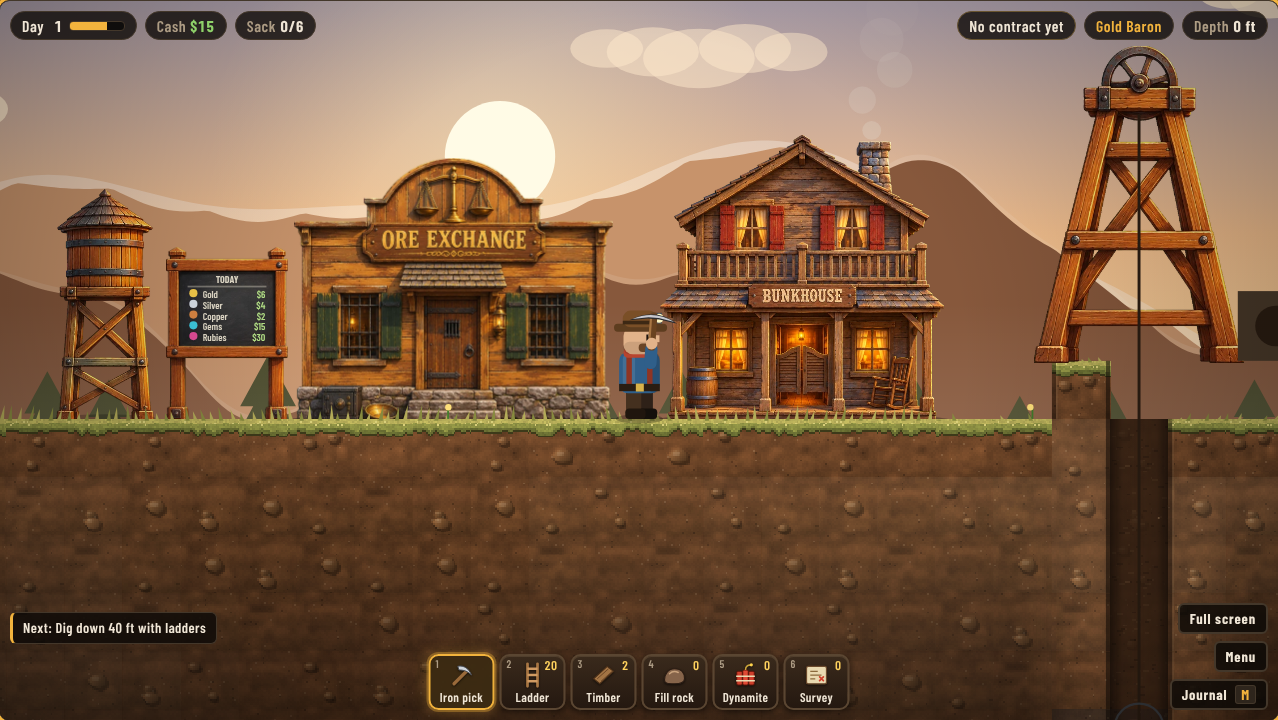
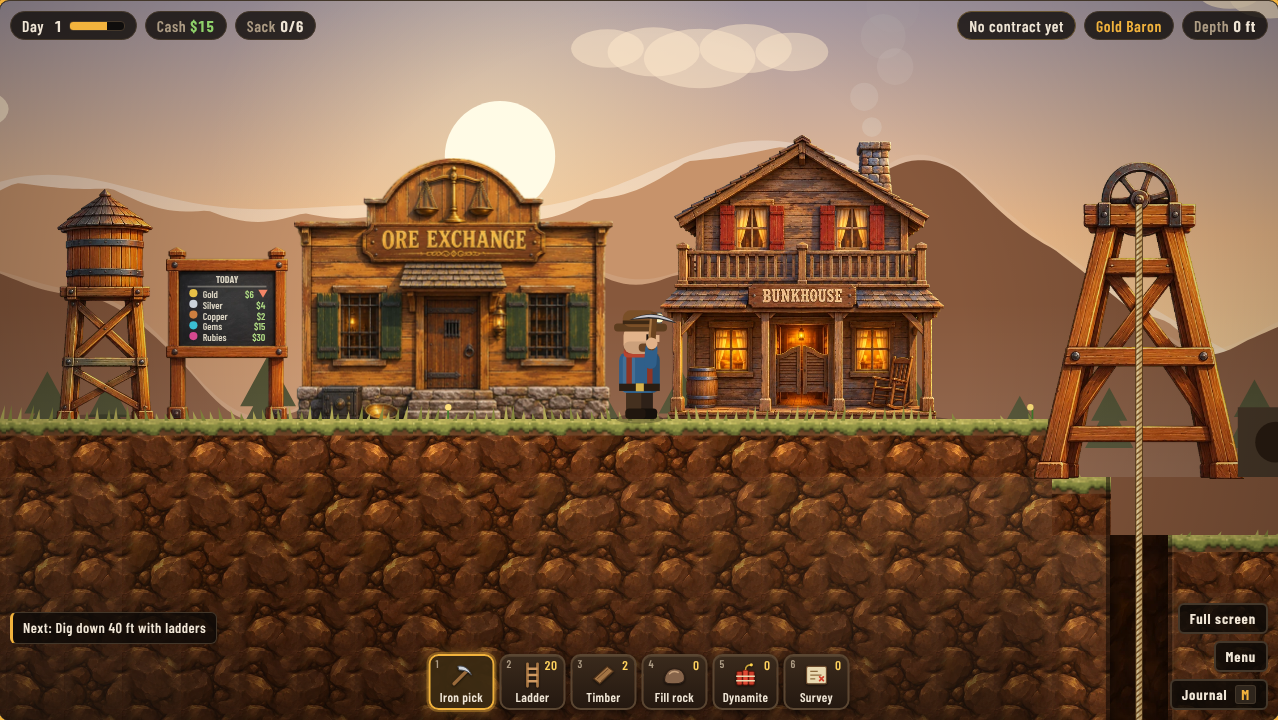
Show pack counts in the store, and give the hoist a proper rope
The General Store has an 'In pack' column showing how many of each item
you are carrying. The number updates the moment you buy, with a small
pop, and so does the cash line. The old 'You have n.' text at the end
of each description is gone. One-time gear shows a tick once owned.

The hoist rope is now a bright hemp colour with a twisted-strand
texture that travels with the bucket, in place of a thin dark line.

Fixes #13
Fixes #14

Claude-Session: https://claude.ai/code/session_01MRT5Ws11QEHHuG9dHs9ttN

diff --git a/deepvein.html b/deepvein.html
@@ -65,6 +65,15 @@ button:disabled{opacity:.45;cursor:not-allowed}
 .card .sub{color:var(--muted);margin:2px 0 8px;font-size:.95rem}
 .rowitem{display:grid;grid-template-columns:1fr auto;gap:2px 12px;align-items:center;padding:7px 0;border-top:1px solid var(--line)}
 .rowitem .nm{font-weight:600}
+.rowitem.shop{grid-template-columns:1fr 4.2rem auto}
+.rowitem.shop .have{grid-row:1 / span 2;grid-column:2;text-align:center;font-family:var(--label);font-weight:700;font-size:1.25rem;color:var(--muted);font-variant-numeric:tabular-nums}
+.rowitem.shop .have.num{color:var(--gold)}
+.rowitem.shop .act{grid-column:3;min-width:11.5rem;justify-content:flex-end}
+.rowitem.shophead{border-top:0;padding:2px 0;font-family:var(--label);font-size:.72rem;letter-spacing:.1em;text-transform:uppercase;color:var(--muted)}
+.rowitem.shophead .have{font-size:.72rem;font-weight:600;grid-row:auto}
+.have.bump{animation:bump .5s ease-out}
+@keyframes bump{0%{transform:scale(1.7);color:var(--ok)}100%{transform:scale(1)}}
+@media (prefers-reduced-motion:reduce){.have.bump{animation:none}}
 .rowitem .ds{color:var(--muted);font-size:.86rem;grid-column:1}
 .rowitem .act{grid-row:1 / span 2;grid-column:2;display:flex;gap:6px;align-items:center}
 .price{font-family:var(--label);font-weight:700;color:var(--ok);font-variant-numeric:tabular-nums}
@@ -712,8 +721,9 @@ function openStore(msg){
   const rows=SHOP.map(it=>{if(it.sec)return `<h4>${it.sec}</h4>`;const owned=it.once&&it.once(),locked=rk<it.r,blocked=it.needs&&!it.needs(),pr=priceOf(it),deal=G.deal===it.id;
     let act;if(owned)act='<span class="ds">Owned</span>';else if(locked)act=`<span class="lock">Unlocks at ${RANKS[it.r][0]}</span>`;else if(blocked)act=`<span class="lock">${it.needsText}</span>`;
     else act=`<span class="price">$${pr}</span><button class="btn" data-buy="${it.id}" data-q="1" ${G.money<pr?'disabled':''}>Buy</button>${it.bulk?`<button class="ghost" data-buy="${it.id}" data-q="${it.bulk}" ${G.money<pr*it.bulk?'disabled':''}>\u00d7${it.bulk}</button>`:''}`;
-    return `<div class="rowitem${locked?' locked':''}"><span class="nm">${it.name}${deal&&!locked?' <span class="dealtag">Deal of the day</span>':''}</span><span class="ds">${it.ds}${it.once||locked?'':` You have ${G.pack[it.id]}.`}</span><div class="act">${act}</div></div>`;}).join('');
-  const ov=overlay(`<h3>General Store</h3><div class="sub">Cash: <span class="price">$${G.money}</span>. Rank: <b>${RANKS[rk][0]}</b>. What you buy goes in your pack, and you carry it down yourself.</div><div data-math></div>${rows}<div class="verdict ok">${msg||''}</div><div class="foot"><button class="ghost" data-close>Leave (Esc)</button></div>`);
+    const have=it.once?(owned?'\u2713':'\u2013'):G.pack[it.id];
+    return `<div class="rowitem shop${locked?' locked':''}"><span class="nm">${it.name}${deal&&!locked?' <span class="dealtag">Deal of the day</span>':''}</span><span class="ds">${it.ds}</span><span class="have${it.once?'':' num'}" ${it.once?'':`data-have="${it.id}"`} title="In your pack">${have}</span><div class="act">${act}</div></div>`;}).join('');
+  const ov=overlay(`<h3>General Store</h3><div class="sub">Cash: <span class="price" data-storecash>$${G.money}</span>. Rank: <b>${RANKS[rk][0]}</b>. What you buy goes in your pack, and you carry it down yourself.</div><div data-math></div><div class="rowitem shop shophead"><span>Item</span><span class="have">In pack</span><span class="act"></span></div>${rows}<div class="verdict ok">${msg||''}</div><div class="foot"><button class="ghost" data-close>Leave (Esc)</button></div>`);
   ov.querySelector('[data-close]').addEventListener('click',closeOverlay);
   ov.querySelectorAll('[data-buy]').forEach(b=>b.addEventListener('click',()=>{
     const it=SHOP.find(s=>s.id===b.dataset.buy),q=+b.dataset.q,pr=priceOf(it);
@@ -728,7 +738,7 @@ function openStore(msg){
       setTimeout(()=>openStore(),1500);});
   }));
 }
-function buy(it,q,cost){if(G.money<cost)return;G.money-=cost;SFX.coins();flag('bought');
+function buy(it,q,cost){if(G.money<cost)return;G.money-=cost;SFX.coins();flag('bought');setTimeout(()=>{document.querySelectorAll('[data-have]').forEach(el=>{const n=G.pack[el.dataset.have];if(String(n)!==el.textContent){el.textContent=n;el.classList.remove('bump');void el.offsetWidth;el.classList.add('bump');}});document.querySelectorAll('[data-storecash]').forEach(el=>{el.textContent='$'+G.money;});},0);
   const id=it.id;if(id==='lantern')G.lantern=7.6;else if(id==='sack')G.cap=Math.max(G.cap,12);else if(id==='sack2')G.cap=20;else if(id==='steel')G.pick=3;else if(id==='diamond')G.pick=4;
   else if(id==='tank'){G.shift=480;G.oil=100;}else if(id==='carbide'){G.carbide=true;G.oil=100;}
   else{G.pack[id]+=q;if(['belt','rail','pump','hoist','cart','lift','drill','lamp'].includes(id)){G.f['had_'+id]=true;once('kit_'+id,`${it.name} is in your pack. Pick it from the toolbar to place it.`);}}hud();save();}
@@ -1596,7 +1606,10 @@ function headframe(H){const P=tilePx,base=SURF[H.x]*P,wx=(H.x+.5)*P,wy=base-5*P,
   g.lineWidth=P*.12;g.beginPath();g.arc(wx,wy,P*.75,0,7);g.stroke();g.lineWidth=P*.06;g.beginPath();for(let k=0;k<2;k++){const a=rot+k*Math.PI/2;g.moveTo(wx-Math.cos(a)*P*.75,wy-Math.sin(a)*P*.75);g.lineTo(wx+Math.cos(a)*P*.75,wy+Math.sin(a)*P*.75);}g.stroke();
   }
   g.fillStyle='#4a3a2a';g.fillRect((hx+2.2)*P,base-1.2*P,P*1.3,P*1.2);g.fillStyle='#2b1d12';g.beginPath();g.arc((hx+2.85)*P,base-.6*P,P*.35,0,7);g.fill();
-  const by=H.y*P;g.strokeStyle='#2b1d12';g.lineWidth=Math.max(1.5,P*.05);g.beginPath();g.moveTo(wx,wy+P*.75);g.lineTo(wx,by+P*.2);g.stroke();
+  const by=H.y*P;{const y1=wy+P*.3,y2=by+P*.2,rw=Math.max(3,P*.1);g.lineCap='butt';g.strokeStyle='#5a3d1c';g.lineWidth=rw+Math.max(1.5,P*.03);g.beginPath();g.moveTo(wx,y1);g.lineTo(wx,y2);g.stroke();g.strokeStyle='#e2bd7c';g.lineWidth=rw;g.beginPath();g.moveTo(wx,y1);g.lineTo(wx,y2);g.stroke();
+    g.strokeStyle='#f6e2b0';g.lineWidth=Math.max(1,rw*.3);g.beginPath();g.moveTo(wx-rw*.22,y1);g.lineTo(wx-rw*.22,y2);g.stroke();
+    // the twist: slanted strands that travel with the bucket
+    g.save();g.beginPath();g.rect(wx-rw/2,y1,rw,y2-y1);g.clip();g.strokeStyle='rgba(120,78,30,.85)';g.lineWidth=Math.max(1,rw*.26);const st=rw*.95,off=((H.y*P)%st+st)%st;g.beginPath();for(let yy=y1-st+off;yy<y2+st;yy+=st){g.moveTo(wx-rw*.7,yy+rw*.55);g.lineTo(wx+rw*.7,yy-rw*.55);}g.stroke();g.restore();}
   g.fillStyle='#6b6f75';g.beginPath();g.moveTo(wx-P*.42,by+P*.3);g.lineTo(wx+P*.42,by+P*.3);g.lineTo(wx+P*.32,by+P);g.lineTo(wx-P*.32,by+P);g.fill();
   g.strokeStyle='#3a3d42';g.lineWidth=Math.max(1,P*.04);g.beginPath();g.arc(wx,by+P*.32,P*.42,Math.PI,0);g.stroke();
   if(cnt(H.load)){g.fillStyle=domCol(H.load);g.beginPath();g.arc(wx,by+P*.32,P*.25,Math.PI,0);g.fill();}}
@@ -1863,6 +1876,6 @@ let last=performance.now();
 function loop(now){const dt=Math.min(.05,(now-last)/1000);last=now;update(dt);draw();requestAnimationFrame(loop);}
 requestAnimationFrame(loop);
 document.addEventListener('visibilitychange',()=>{if(document.hidden)save();});
-window.__mine={openParent,parentPanel,pickFact,pickRow,get facts(){return FS;},callOil,FAST,openStore,BEAM:()=>BEAM,openMenu,saveGame,loadGame,deleteGame,saveList,snap,reach,gapTo,timberSpan,timberCost,pickup,callRat,spawnRat,rats:()=>rats,ratPath,ORE,bag,cnt,COLS,ROWS,gotFossil,blastShape,explode,SEEN:()=>SEEN,PROX:()=>PROX,lamps:()=>lamps,endDay,openAssay,openJournal,openPerk,pendingPerks,lodeFound,openChest,dig,perk,get G(){return G;},get p(){return p;},W:()=>W,O:()=>O,WA:()=>WA,KNOWN:()=>KNOWN,idx,place,setTool,SURF:()=>SURF,hoists:()=>hoists,lifts:()=>lifts,drills:()=>drills,pumps:()=>pumps,carts:()=>carts,items:()=>items,save,earn,reveal,pickFact,FS:()=>FS,interact,record};
+window.__mine={buy,openParent,parentPanel,pickFact,pickRow,get facts(){return FS;},callOil,FAST,openStore,BEAM:()=>BEAM,openMenu,saveGame,loadGame,deleteGame,saveList,snap,reach,gapTo,timberSpan,timberCost,pickup,callRat,spawnRat,rats:()=>rats,ratPath,ORE,bag,cnt,COLS,ROWS,gotFossil,blastShape,explode,SEEN:()=>SEEN,PROX:()=>PROX,lamps:()=>lamps,endDay,openAssay,openJournal,openPerk,pendingPerks,lodeFound,openChest,dig,perk,get G(){return G;},get p(){return p;},W:()=>W,O:()=>O,WA:()=>WA,KNOWN:()=>KNOWN,idx,place,setTool,SURF:()=>SURF,hoists:()=>hoists,lifts:()=>lifts,drills:()=>drills,pumps:()=>pumps,carts:()=>carts,items:()=>items,save,earn,reveal,pickFact,FS:()=>FS,interact,record};
 })();
 </script>

diff --git a/releases/deepvein-2.0.html b/releases/deepvein-2.0.html
@@ -65,6 +65,15 @@ button:disabled{opacity:.45;cursor:not-allowed}
 .card .sub{color:var(--muted);margin:2px 0 8px;font-size:.95rem}
 .rowitem{display:grid;grid-template-columns:1fr auto;gap:2px 12px;align-items:center;padding:7px 0;border-top:1px solid var(--line)}
 .rowitem .nm{font-weight:600}
+.rowitem.shop{grid-template-columns:1fr 4.2rem auto}
+.rowitem.shop .have{grid-row:1 / span 2;grid-column:2;text-align:center;font-family:var(--label);font-weight:700;font-size:1.25rem;color:var(--muted);font-variant-numeric:tabular-nums}
+.rowitem.shop .have.num{color:var(--gold)}
+.rowitem.shop .act{grid-column:3;min-width:11.5rem;justify-content:flex-end}
+.rowitem.shophead{border-top:0;padding:2px 0;font-family:var(--label);font-size:.72rem;letter-spacing:.1em;text-transform:uppercase;color:var(--muted)}
+.rowitem.shophead .have{font-size:.72rem;font-weight:600;grid-row:auto}
+.have.bump{animation:bump .5s ease-out}
+@keyframes bump{0%{transform:scale(1.7);color:var(--ok)}100%{transform:scale(1)}}
+@media (prefers-reduced-motion:reduce){.have.bump{animation:none}}
 .rowitem .ds{color:var(--muted);font-size:.86rem;grid-column:1}
 .rowitem .act{grid-row:1 / span 2;grid-column:2;display:flex;gap:6px;align-items:center}
 .price{font-family:var(--label);font-weight:700;color:var(--ok);font-variant-numeric:tabular-nums}
@@ -712,8 +721,9 @@ function openStore(msg){
   const rows=SHOP.map(it=>{if(it.sec)return `<h4>${it.sec}</h4>`;const owned=it.once&&it.once(),locked=rk<it.r,blocked=it.needs&&!it.needs(),pr=priceOf(it),deal=G.deal===it.id;
     let act;if(owned)act='<span class="ds">Owned</span>';else if(locked)act=`<span class="lock">Unlocks at ${RANKS[it.r][0]}</span>`;else if(blocked)act=`<span class="lock">${it.needsText}</span>`;
     else act=`<span class="price">$${pr}</span><button class="btn" data-buy="${it.id}" data-q="1" ${G.money<pr?'disabled':''}>Buy</button>${it.bulk?`<button class="ghost" data-buy="${it.id}" data-q="${it.bulk}" ${G.money<pr*it.bulk?'disabled':''}>\u00d7${it.bulk}</button>`:''}`;
-    return `<div class="rowitem${locked?' locked':''}"><span class="nm">${it.name}${deal&&!locked?' <span class="dealtag">Deal of the day</span>':''}</span><span class="ds">${it.ds}${it.once||locked?'':` You have ${G.pack[it.id]}.`}</span><div class="act">${act}</div></div>`;}).join('');
-  const ov=overlay(`<h3>General Store</h3><div class="sub">Cash: <span class="price">$${G.money}</span>. Rank: <b>${RANKS[rk][0]}</b>. What you buy goes in your pack, and you carry it down yourself.</div><div data-math></div>${rows}<div class="verdict ok">${msg||''}</div><div class="foot"><button class="ghost" data-close>Leave (Esc)</button></div>`);
+    const have=it.once?(owned?'\u2713':'\u2013'):G.pack[it.id];
+    return `<div class="rowitem shop${locked?' locked':''}"><span class="nm">${it.name}${deal&&!locked?' <span class="dealtag">Deal of the day</span>':''}</span><span class="ds">${it.ds}</span><span class="have${it.once?'':' num'}" ${it.once?'':`data-have="${it.id}"`} title="In your pack">${have}</span><div class="act">${act}</div></div>`;}).join('');
+  const ov=overlay(`<h3>General Store</h3><div class="sub">Cash: <span class="price" data-storecash>$${G.money}</span>. Rank: <b>${RANKS[rk][0]}</b>. What you buy goes in your pack, and you carry it down yourself.</div><div data-math></div><div class="rowitem shop shophead"><span>Item</span><span class="have">In pack</span><span class="act"></span></div>${rows}<div class="verdict ok">${msg||''}</div><div class="foot"><button class="ghost" data-close>Leave (Esc)</button></div>`);
   ov.querySelector('[data-close]').addEventListener('click',closeOverlay);
   ov.querySelectorAll('[data-buy]').forEach(b=>b.addEventListener('click',()=>{
     const it=SHOP.find(s=>s.id===b.dataset.buy),q=+b.dataset.q,pr=priceOf(it);
@@ -728,7 +738,7 @@ function openStore(msg){
       setTimeout(()=>openStore(),1500);});
   }));
 }
-function buy(it,q,cost){if(G.money<cost)return;G.money-=cost;SFX.coins();flag('bought');
+function buy(it,q,cost){if(G.money<cost)return;G.money-=cost;SFX.coins();flag('bought');setTimeout(()=>{document.querySelectorAll('[data-have]').forEach(el=>{const n=G.pack[el.dataset.have];if(String(n)!==el.textContent){el.textContent=n;el.classList.remove('bump');void el.offsetWidth;el.classList.add('bump');}});document.querySelectorAll('[data-storecash]').forEach(el=>{el.textContent='$'+G.money;});},0);
   const id=it.id;if(id==='lantern')G.lantern=7.6;else if(id==='sack')G.cap=Math.max(G.cap,12);else if(id==='sack2')G.cap=20;else if(id==='steel')G.pick=3;else if(id==='diamond')G.pick=4;
   else if(id==='tank'){G.shift=480;G.oil=100;}else if(id==='carbide'){G.carbide=true;G.oil=100;}
   else{G.pack[id]+=q;if(['belt','rail','pump','hoist','cart','lift','drill','lamp'].includes(id)){G.f['had_'+id]=true;once('kit_'+id,`${it.name} is in your pack. Pick it from the toolbar to place it.`);}}hud();save();}
@@ -1596,7 +1606,10 @@ function headframe(H){const P=tilePx,base=SURF[H.x]*P,wx=(H.x+.5)*P,wy=base-5*P,
   g.lineWidth=P*.12;g.beginPath();g.arc(wx,wy,P*.75,0,7);g.stroke();g.lineWidth=P*.06;g.beginPath();for(let k=0;k<2;k++){const a=rot+k*Math.PI/2;g.moveTo(wx-Math.cos(a)*P*.75,wy-Math.sin(a)*P*.75);g.lineTo(wx+Math.cos(a)*P*.75,wy+Math.sin(a)*P*.75);}g.stroke();
   }
   g.fillStyle='#4a3a2a';g.fillRect((hx+2.2)*P,base-1.2*P,P*1.3,P*1.2);g.fillStyle='#2b1d12';g.beginPath();g.arc((hx+2.85)*P,base-.6*P,P*.35,0,7);g.fill();
-  const by=H.y*P;g.strokeStyle='#2b1d12';g.lineWidth=Math.max(1.5,P*.05);g.beginPath();g.moveTo(wx,wy+P*.75);g.lineTo(wx,by+P*.2);g.stroke();
+  const by=H.y*P;{const y1=wy+P*.3,y2=by+P*.2,rw=Math.max(3,P*.1);g.lineCap='butt';g.strokeStyle='#5a3d1c';g.lineWidth=rw+Math.max(1.5,P*.03);g.beginPath();g.moveTo(wx,y1);g.lineTo(wx,y2);g.stroke();g.strokeStyle='#e2bd7c';g.lineWidth=rw;g.beginPath();g.moveTo(wx,y1);g.lineTo(wx,y2);g.stroke();
+    g.strokeStyle='#f6e2b0';g.lineWidth=Math.max(1,rw*.3);g.beginPath();g.moveTo(wx-rw*.22,y1);g.lineTo(wx-rw*.22,y2);g.stroke();
+    // the twist: slanted strands that travel with the bucket
+    g.save();g.beginPath();g.rect(wx-rw/2,y1,rw,y2-y1);g.clip();g.strokeStyle='rgba(120,78,30,.85)';g.lineWidth=Math.max(1,rw*.26);const st=rw*.95,off=((H.y*P)%st+st)%st;g.beginPath();for(let yy=y1-st+off;yy<y2+st;yy+=st){g.moveTo(wx-rw*.7,yy+rw*.55);g.lineTo(wx+rw*.7,yy-rw*.55);}g.stroke();g.restore();}
   g.fillStyle='#6b6f75';g.beginPath();g.moveTo(wx-P*.42,by+P*.3);g.lineTo(wx+P*.42,by+P*.3);g.lineTo(wx+P*.32,by+P);g.lineTo(wx-P*.32,by+P);g.fill();
   g.strokeStyle='#3a3d42';g.lineWidth=Math.max(1,P*.04);g.beginPath();g.arc(wx,by+P*.32,P*.42,Math.PI,0);g.stroke();
   if(cnt(H.load)){g.fillStyle=domCol(H.load);g.beginPath();g.arc(wx,by+P*.32,P*.25,Math.PI,0);g.fill();}}
@@ -1863,6 +1876,6 @@ let last=performance.now();
 function loop(now){const dt=Math.min(.05,(now-last)/1000);last=now;update(dt);draw();requestAnimationFrame(loop);}
 requestAnimationFrame(loop);
 document.addEventListener('visibilitychange',()=>{if(document.hidden)save();});
-window.__mine={openParent,parentPanel,pickFact,pickRow,get facts(){return FS;},callOil,FAST,openStore,BEAM:()=>BEAM,openMenu,saveGame,loadGame,deleteGame,saveList,snap,reach,gapTo,timberSpan,timberCost,pickup,callRat,spawnRat,rats:()=>rats,ratPath,ORE,bag,cnt,COLS,ROWS,gotFossil,blastShape,explode,SEEN:()=>SEEN,PROX:()=>PROX,lamps:()=>lamps,endDay,openAssay,openJournal,openPerk,pendingPerks,lodeFound,openChest,dig,perk,get G(){return G;},get p(){return p;},W:()=>W,O:()=>O,WA:()=>WA,KNOWN:()=>KNOWN,idx,place,setTool,SURF:()=>SURF,hoists:()=>hoists,lifts:()=>lifts,drills:()=>drills,pumps:()=>pumps,carts:()=>carts,items:()=>items,save,earn,reveal,pickFact,FS:()=>FS,interact,record};
+window.__mine={buy,openParent,parentPanel,pickFact,pickRow,get facts(){return FS;},callOil,FAST,openStore,BEAM:()=>BEAM,openMenu,saveGame,loadGame,deleteGame,saveList,snap,reach,gapTo,timberSpan,timberCost,pickup,callRat,spawnRat,rats:()=>rats,ratPath,ORE,bag,cnt,COLS,ROWS,gotFossil,blastShape,explode,SEEN:()=>SEEN,PROX:()=>PROX,lamps:()=>lamps,endDay,openAssay,openJournal,openPerk,pendingPerks,lodeFound,openChest,dig,perk,get G(){return G;},get p(){return p;},W:()=>W,O:()=>O,WA:()=>WA,KNOWN:()=>KNOWN,idx,place,setTool,SURF:()=>SURF,hoists:()=>hoists,lifts:()=>lifts,drills:()=>drills,pumps:()=>pumps,carts:()=>carts,items:()=>items,save,earn,reveal,pickFact,FS:()=>FS,interact,record};
 })();
 </script>

diff --git a/src/game.js b/src/game.js
@@ -329,8 +329,9 @@ function openStore(msg){
   const rows=SHOP.map(it=>{if(it.sec)return `<h4>${it.sec}</h4>`;const owned=it.once&&it.once(),locked=rk<it.r,blocked=it.needs&&!it.needs(),pr=priceOf(it),deal=G.deal===it.id;
     let act;if(owned)act='<span class="ds">Owned</span>';else if(locked)act=`<span class="lock">Unlocks at ${RANKS[it.r][0]}</span>`;else if(blocked)act=`<span class="lock">${it.needsText}</span>`;
     else act=`<span class="price">$${pr}</span><button class="btn" data-buy="${it.id}" data-q="1" ${G.money<pr?'disabled':''}>Buy</button>${it.bulk?`<button class="ghost" data-buy="${it.id}" data-q="${it.bulk}" ${G.money<pr*it.bulk?'disabled':''}>×${it.bulk}</button>`:''}`;
-    return `<div class="rowitem${locked?' locked':''}"><span class="nm">${it.name}${deal&&!locked?' <span class="dealtag">Deal of the day</span>':''}</span><span class="ds">${it.ds}${it.once||locked?'':` You have ${G.pack[it.id]}.`}</span><div class="act">${act}</div></div>`;}).join('');
-  const ov=overlay(`<h3>General Store</h3><div class="sub">Cash: <span class="price">$${G.money}</span>. Rank: <b>${RANKS[rk][0]}</b>. What you buy goes in your pack, and you carry it down yourself.</div><div data-math></div>${rows}<div class="verdict ok">${msg||''}</div><div class="foot"><button class="ghost" data-close>Leave (Esc)</button></div>`);
+    const have=it.once?(owned?'\u2713':'\u2013'):G.pack[it.id];
+    return `<div class="rowitem shop${locked?' locked':''}"><span class="nm">${it.name}${deal&&!locked?' <span class="dealtag">Deal of the day</span>':''}</span><span class="ds">${it.ds}</span><span class="have${it.once?'':' num'}" ${it.once?'':`data-have="${it.id}"`} title="In your pack">${have}</span><div class="act">${act}</div></div>`;}).join('');
+  const ov=overlay(`<h3>General Store</h3><div class="sub">Cash: <span class="price" data-storecash>$${G.money}</span>. Rank: <b>${RANKS[rk][0]}</b>. What you buy goes in your pack, and you carry it down yourself.</div><div data-math></div><div class="rowitem shop shophead"><span>Item</span><span class="have">In pack</span><span class="act"></span></div>${rows}<div class="verdict ok">${msg||''}</div><div class="foot"><button class="ghost" data-close>Leave (Esc)</button></div>`);
   ov.querySelector('[data-close]').addEventListener('click',closeOverlay);
   ov.querySelectorAll('[data-buy]').forEach(b=>b.addEventListener('click',()=>{
     const it=SHOP.find(s=>s.id===b.dataset.buy),q=+b.dataset.q,pr=priceOf(it);
@@ -345,7 +346,7 @@ function openStore(msg){
       setTimeout(()=>openStore(),1500);});
   }));
 }
-function buy(it,q,cost){if(G.money<cost)return;G.money-=cost;SFX.coins();flag('bought');
+function buy(it,q,cost){if(G.money<cost)return;G.money-=cost;SFX.coins();flag('bought');setTimeout(()=>{document.querySelectorAll('[data-have]').forEach(el=>{const n=G.pack[el.dataset.have];if(String(n)!==el.textContent){el.textContent=n;el.classList.remove('bump');void el.offsetWidth;el.classList.add('bump');}});document.querySelectorAll('[data-storecash]').forEach(el=>{el.textContent='$'+G.money;});},0);
   const id=it.id;if(id==='lantern')G.lantern=7.6;else if(id==='sack')G.cap=Math.max(G.cap,12);else if(id==='sack2')G.cap=20;else if(id==='steel')G.pick=3;else if(id==='diamond')G.pick=4;
   else if(id==='tank'){G.shift=480;G.oil=100;}else if(id==='carbide'){G.carbide=true;G.oil=100;}
   else{G.pack[id]+=q;if(['belt','rail','pump','hoist','cart','lift','drill','lamp'].includes(id)){G.f['had_'+id]=true;once('kit_'+id,`${it.name} is in your pack. Pick it from the toolbar to place it.`);}}hud();save();}
@@ -1213,7 +1214,10 @@ function headframe(H){const P=tilePx,base=SURF[H.x]*P,wx=(H.x+.5)*P,wy=base-5*P,
   g.lineWidth=P*.12;g.beginPath();g.arc(wx,wy,P*.75,0,7);g.stroke();g.lineWidth=P*.06;g.beginPath();for(let k=0;k<2;k++){const a=rot+k*Math.PI/2;g.moveTo(wx-Math.cos(a)*P*.75,wy-Math.sin(a)*P*.75);g.lineTo(wx+Math.cos(a)*P*.75,wy+Math.sin(a)*P*.75);}g.stroke();
   }
   g.fillStyle='#4a3a2a';g.fillRect((hx+2.2)*P,base-1.2*P,P*1.3,P*1.2);g.fillStyle='#2b1d12';g.beginPath();g.arc((hx+2.85)*P,base-.6*P,P*.35,0,7);g.fill();
-  const by=H.y*P;g.strokeStyle='#2b1d12';g.lineWidth=Math.max(1.5,P*.05);g.beginPath();g.moveTo(wx,wy+P*.75);g.lineTo(wx,by+P*.2);g.stroke();
+  const by=H.y*P;{const y1=wy+P*.3,y2=by+P*.2,rw=Math.max(3,P*.1);g.lineCap='butt';g.strokeStyle='#5a3d1c';g.lineWidth=rw+Math.max(1.5,P*.03);g.beginPath();g.moveTo(wx,y1);g.lineTo(wx,y2);g.stroke();g.strokeStyle='#e2bd7c';g.lineWidth=rw;g.beginPath();g.moveTo(wx,y1);g.lineTo(wx,y2);g.stroke();
+    g.strokeStyle='#f6e2b0';g.lineWidth=Math.max(1,rw*.3);g.beginPath();g.moveTo(wx-rw*.22,y1);g.lineTo(wx-rw*.22,y2);g.stroke();
+    // the twist: slanted strands that travel with the bucket
+    g.save();g.beginPath();g.rect(wx-rw/2,y1,rw,y2-y1);g.clip();g.strokeStyle='rgba(120,78,30,.85)';g.lineWidth=Math.max(1,rw*.26);const st=rw*.95,off=((H.y*P)%st+st)%st;g.beginPath();for(let yy=y1-st+off;yy<y2+st;yy+=st){g.moveTo(wx-rw*.7,yy+rw*.55);g.lineTo(wx+rw*.7,yy-rw*.55);}g.stroke();g.restore();}
   g.fillStyle='#6b6f75';g.beginPath();g.moveTo(wx-P*.42,by+P*.3);g.lineTo(wx+P*.42,by+P*.3);g.lineTo(wx+P*.32,by+P);g.lineTo(wx-P*.32,by+P);g.fill();
   g.strokeStyle='#3a3d42';g.lineWidth=Math.max(1,P*.04);g.beginPath();g.arc(wx,by+P*.32,P*.42,Math.PI,0);g.stroke();
   if(cnt(H.load)){g.fillStyle=domCol(H.load);g.beginPath();g.arc(wx,by+P*.32,P*.25,Math.PI,0);g.fill();}}
@@ -1480,6 +1484,6 @@ let last=performance.now();
 function loop(now){const dt=Math.min(.05,(now-last)/1000);last=now;update(dt);draw();requestAnimationFrame(loop);}
 requestAnimationFrame(loop);
 document.addEventListener('visibilitychange',()=>{if(document.hidden)save();});
-window.__mine={openParent,parentPanel,pickFact,pickRow,get facts(){return FS;},callOil,FAST,openStore,BEAM:()=>BEAM,openMenu,saveGame,loadGame,deleteGame,saveList,snap,reach,gapTo,timberSpan,timberCost,pickup,callRat,spawnRat,rats:()=>rats,ratPath,ORE,bag,cnt,COLS,ROWS,gotFossil,blastShape,explode,SEEN:()=>SEEN,PROX:()=>PROX,lamps:()=>lamps,endDay,openAssay,openJournal,openPerk,pendingPerks,lodeFound,openChest,dig,perk,get G(){return G;},get p(){return p;},W:()=>W,O:()=>O,WA:()=>WA,KNOWN:()=>KNOWN,idx,place,setTool,SURF:()=>SURF,hoists:()=>hoists,lifts:()=>lifts,drills:()=>drills,pumps:()=>pumps,carts:()=>carts,items:()=>items,save,earn,reveal,pickFact,FS:()=>FS,interact,record};
+window.__mine={buy,openParent,parentPanel,pickFact,pickRow,get facts(){return FS;},callOil,FAST,openStore,BEAM:()=>BEAM,openMenu,saveGame,loadGame,deleteGame,saveList,snap,reach,gapTo,timberSpan,timberCost,pickup,callRat,spawnRat,rats:()=>rats,ratPath,ORE,bag,cnt,COLS,ROWS,gotFossil,blastShape,explode,SEEN:()=>SEEN,PROX:()=>PROX,lamps:()=>lamps,endDay,openAssay,openJournal,openPerk,pendingPerks,lodeFound,openChest,dig,perk,get G(){return G;},get p(){return p;},W:()=>W,O:()=>O,WA:()=>WA,KNOWN:()=>KNOWN,idx,place,setTool,SURF:()=>SURF,hoists:()=>hoists,lifts:()=>lifts,drills:()=>drills,pumps:()=>pumps,carts:()=>carts,items:()=>items,save,earn,reveal,pickFact,FS:()=>FS,interact,record};
 })();
 </script>

diff --git a/tests/store-counts.js b/tests/store-counts.js
@@ -1,0 +1,16 @@
+// The General Store shows how many of each item are in the pack, in its own column, and the number updates as you buy.
+const {chromium}=require('playwright');
+(async()=>{const b=await chromium.launch();const p=await b.newPage({viewport:{width:1300,height:1000}});const errs=[];p.on('pageerror',e=>errs.push(e.message));
+await p.goto('file://'+__dirname+'/../deepvein.html');await p.waitForTimeout(1000);await p.click('.ov [data-close]');
+await p.evaluate(()=>{const M=window.__mine;M.G.money=500;M.G.earned=99999;M.G.seen=new Proxy({}, {get:()=>1});M.openStore();});await p.waitForTimeout(250);
+const have=id=>p.$eval(`.ov [data-have="${id}"]`,e=>e.textContent);
+console.log('column header:',await p.$eval('.ov .shophead .have',e=>e.textContent),'| old "You have" text present:',(await p.$eval('.ov .card',e=>e.innerText)).includes('You have'));
+console.log('ladders shown:',await have('ladder'),'| timber:',await have('timber'),'| dynamite:',await have('dyn'));
+console.log('one-time gear cells:',JSON.stringify(await p.$$eval('.ov .rowitem.shop .have:not(.num)',a=>a.map(x=>x.textContent).slice(1,6))));
+await p.screenshot({path:'store1.png'});
+// buy one ladder: the count changes at once, before the store redraws
+await p.evaluate(()=>{const M=window.__mine;M.buy({id:'ladder',name:'Ladder'},1,2);});await p.waitForTimeout(60);console.log('after buying 1 ladder:',await have('ladder'),'| cash line:',await p.$eval('.ov [data-storecash]',e=>e.textContent));
+// buy a bundle with the math bonus through the real buttons
+await p.click('.ov [data-buy="timber"][data-q="5"]');await p.waitForTimeout(150);const t=await p.$eval('.ov .eq span',e=>e.textContent);const m=t.match(/(\d+) \D+ (\d+)/);await p.fill('.ov .eq input',String(m[1]*m[2]));await p.keyboard.press('Enter');await p.waitForTimeout(200);
+console.log('after a timber bundle answered right (2 + 5 + 2 free):',await have('timber'),'| pack:',await p.evaluate(()=>window.__mine.G.pack.timber));
+console.log('errs',JSON.stringify(errs));await b.close();})();

diff --git a/src/head.html b/src/head.html
@@ -60,6 +60,15 @@ button:disabled{opacity:.45;cursor:not-allowed}
 .card .sub{color:var(--muted);margin:2px 0 8px;font-size:.95rem}
 .rowitem{display:grid;grid-template-columns:1fr auto;gap:2px 12px;align-items:center;padding:7px 0;border-top:1px solid var(--line)}
 .rowitem .nm{font-weight:600}
+.rowitem.shop{grid-template-columns:1fr 4.2rem auto}
+.rowitem.shop .have{grid-row:1 / span 2;grid-column:2;text-align:center;font-family:var(--label);font-weight:700;font-size:1.25rem;color:var(--muted);font-variant-numeric:tabular-nums}
+.rowitem.shop .have.num{color:var(--gold)}
+.rowitem.shop .act{grid-column:3;min-width:11.5rem;justify-content:flex-end}
+.rowitem.shophead{border-top:0;padding:2px 0;font-family:var(--label);font-size:.72rem;letter-spacing:.1em;text-transform:uppercase;color:var(--muted)}
+.rowitem.shophead .have{font-size:.72rem;font-weight:600;grid-row:auto}
+.have.bump{animation:bump .5s ease-out}
+@keyframes bump{0%{transform:scale(1.7);color:var(--ok)}100%{transform:scale(1)}}
+@media (prefers-reduced-motion:reduce){.have.bump{animation:none}}
 .rowitem .ds{color:var(--muted);font-size:.86rem;grid-column:1}
 .rowitem .act{grid-row:1 / span 2;grid-column:2;display:flex;gap:6px;align-items:center}
 .price{font-family:var(--label);font-weight:700;color:var(--ok);font-variant-numeric:tabular-nums}
